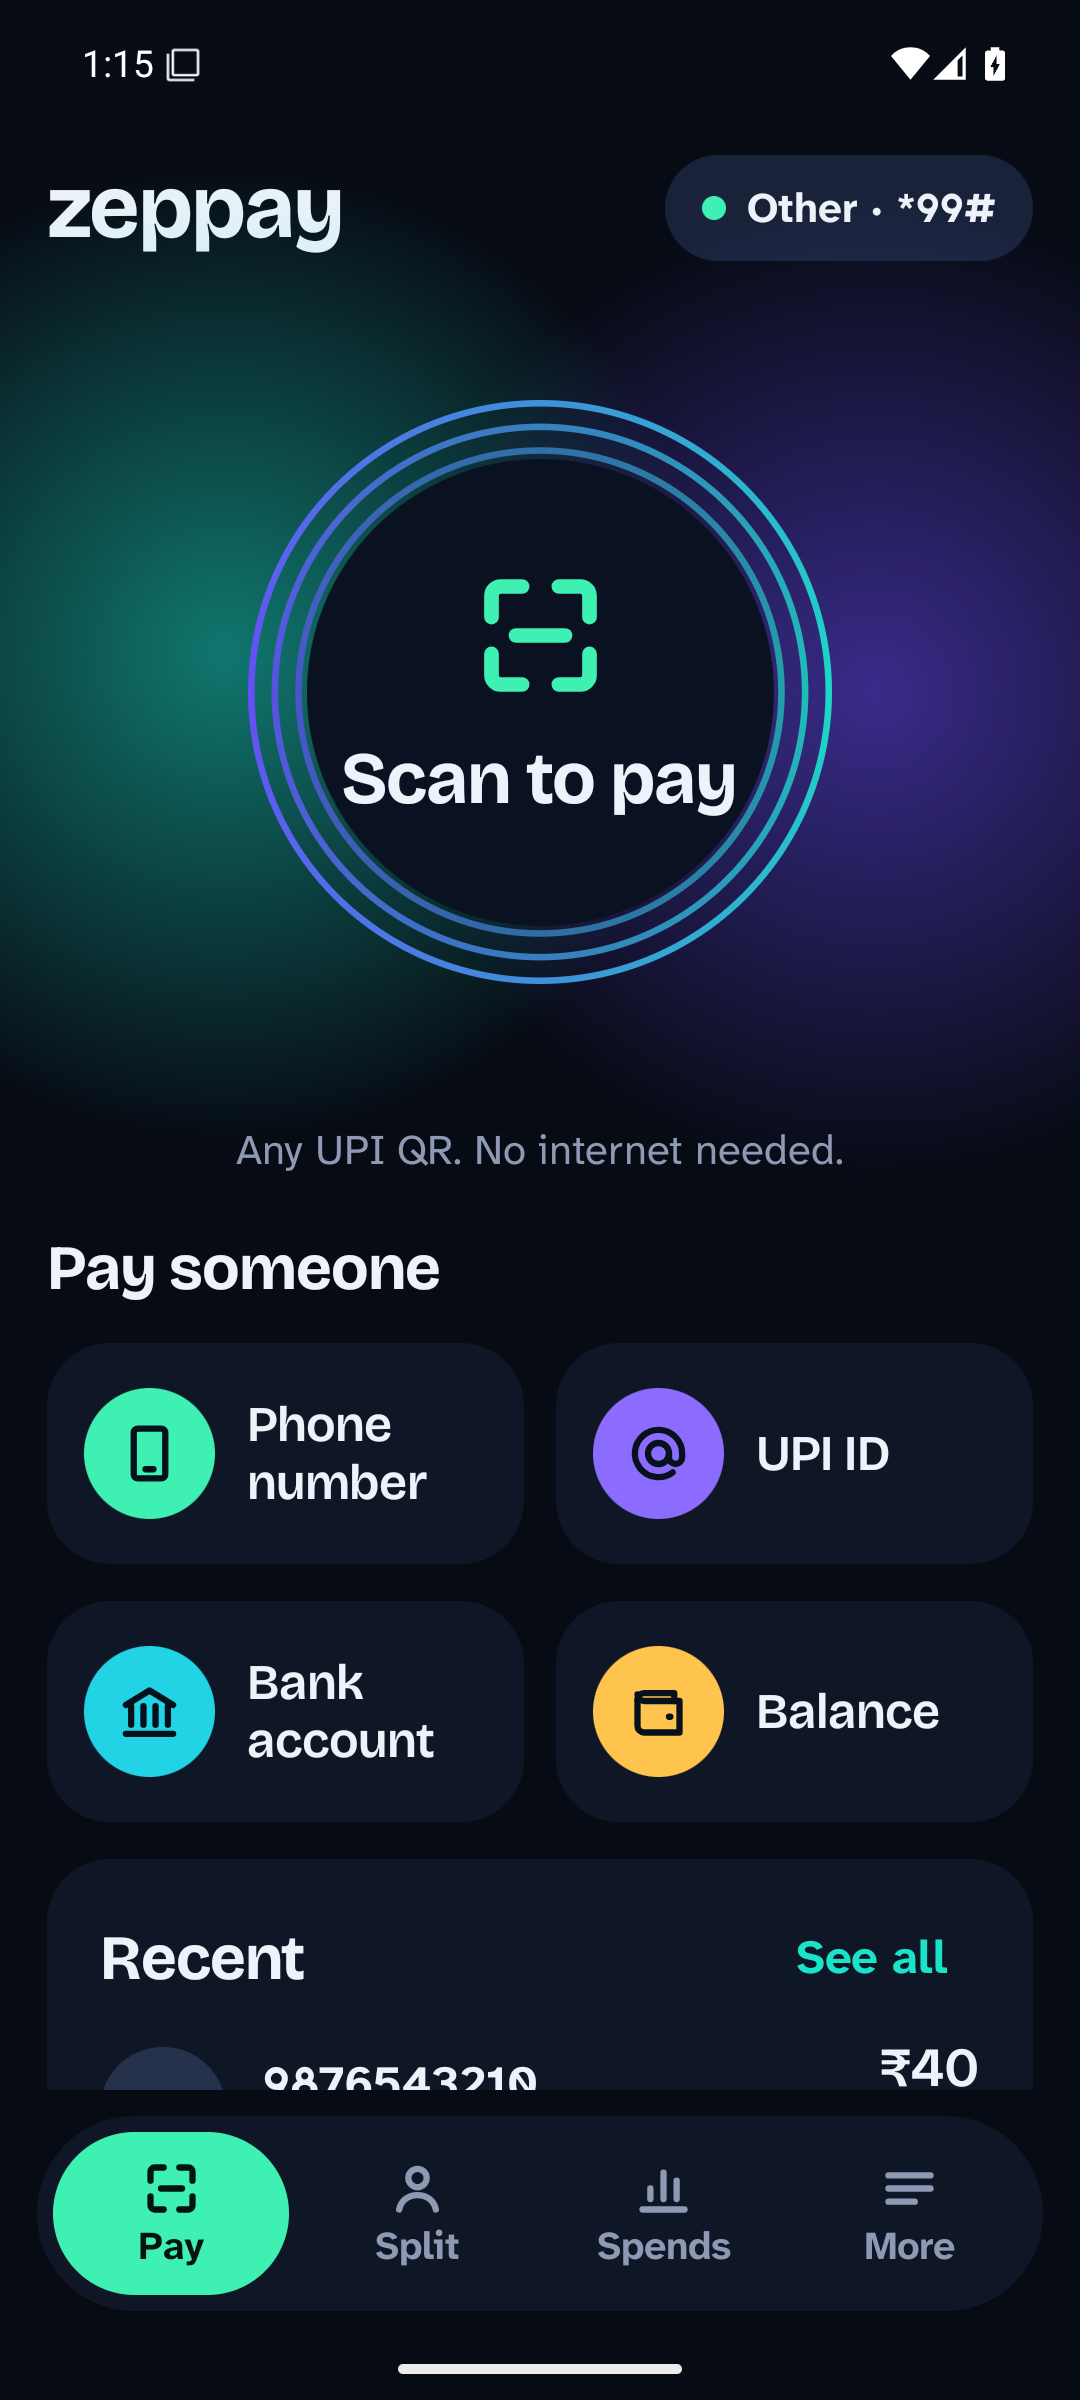
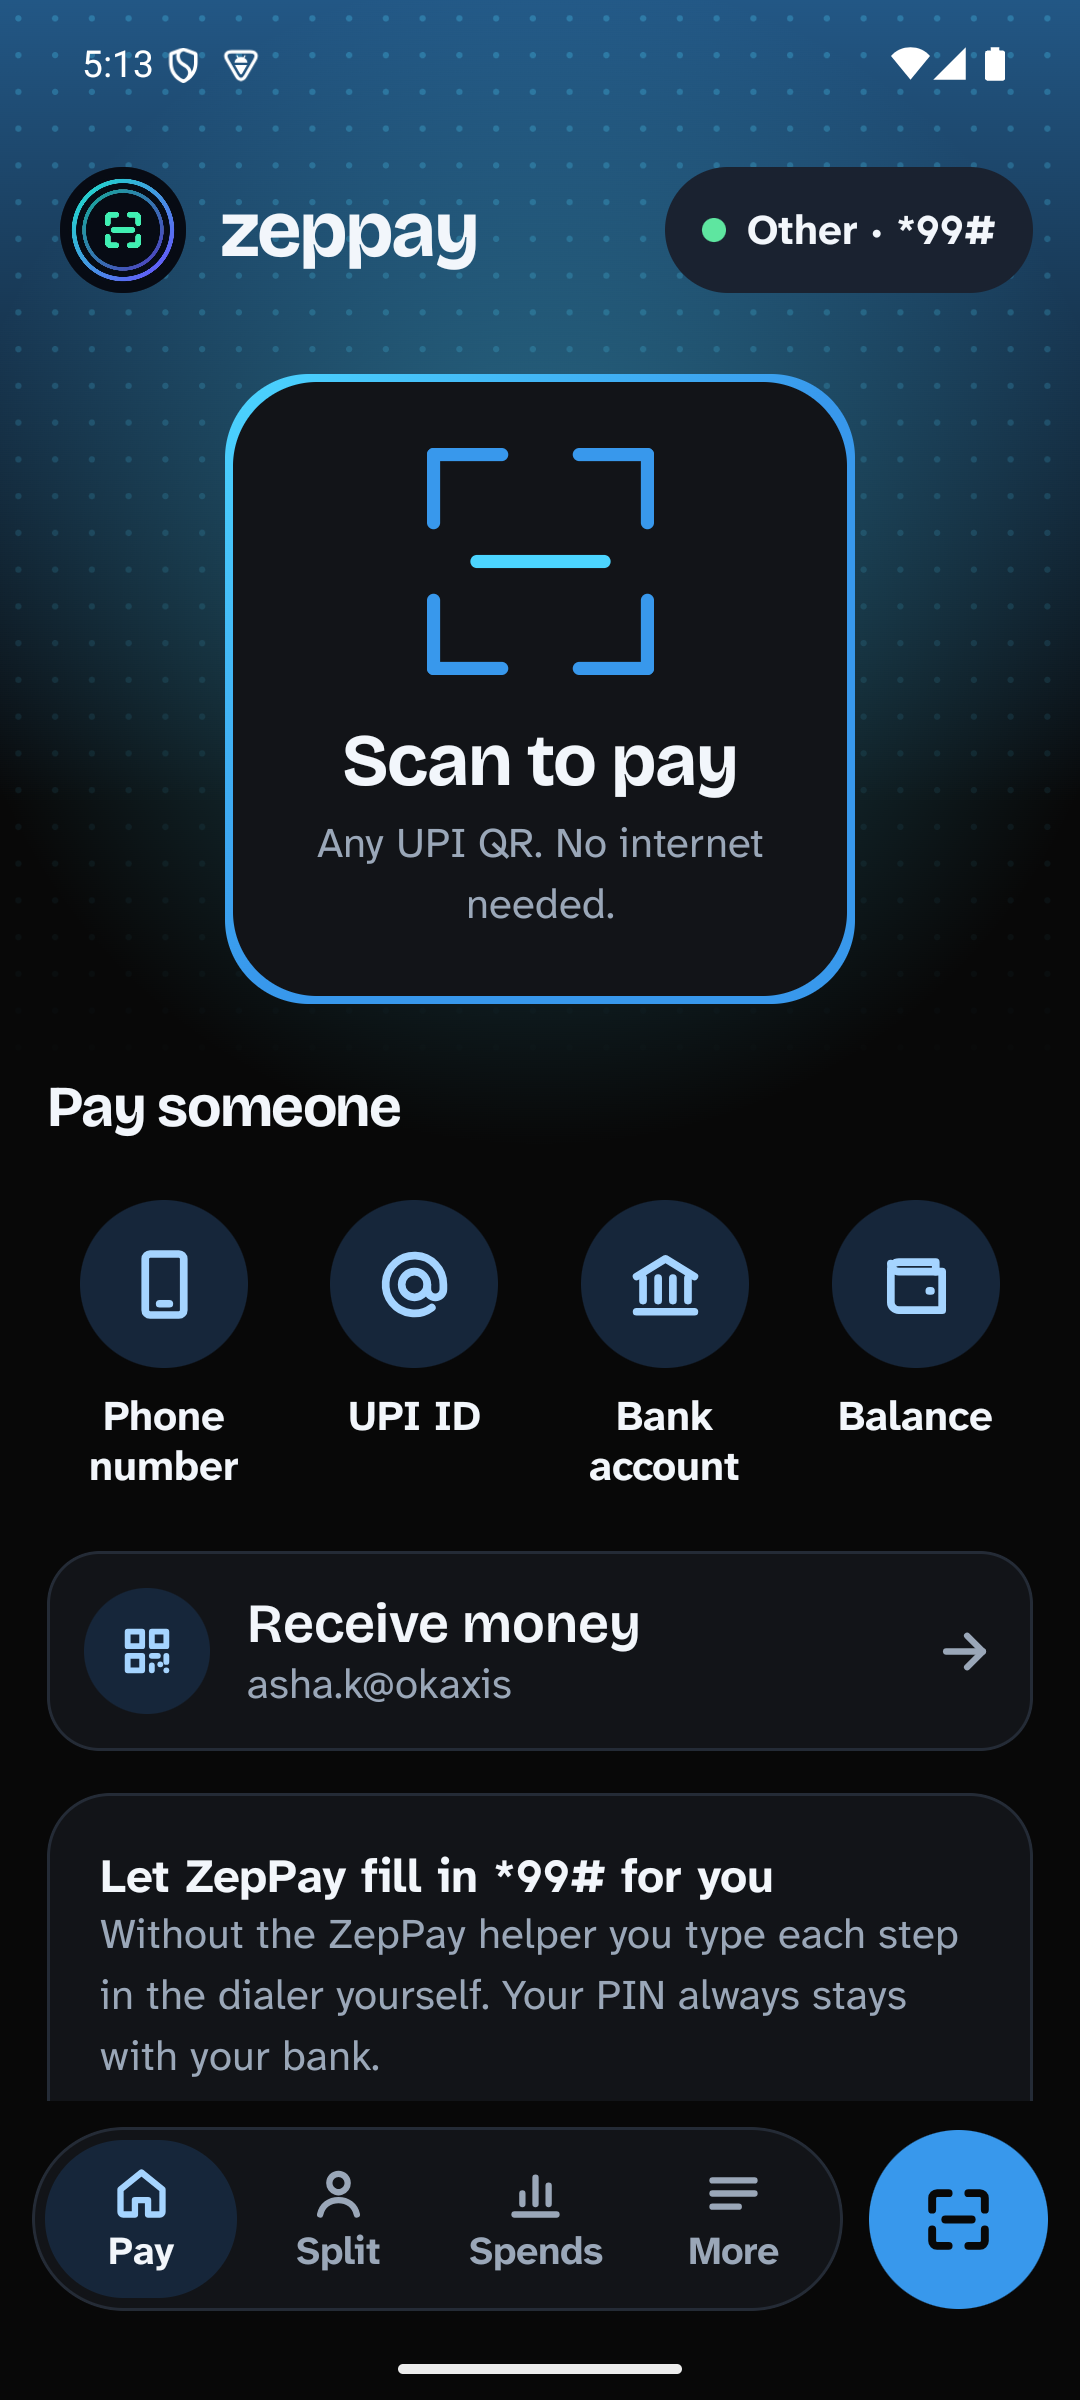
Docs: Blue Current design contract, new screenshots, Profile and Receive

diff --git a/android-app/docs/DESIGN.md b/android-app/docs/DESIGN.md
@@ -1,52 +1,72 @@
-# ZepPay design contract: "Aurora Signal"
+# ZepPay design contract: "Blue Current"
 
-Shared by the Android app and the iPhone web app (`mananbharti/zeppay`, `zeppay-pwa/`).
-Target image: [design/aurora-target-home.png](design/aurora-target-home.png) (generated in Figma, approved, then built and compared on device).
+Android app. Replaces "Aurora Signal" (2.1.x). The iPhone web app (`zeppay-pwa/`) still uses Aurora Signal until it is ported.
 
-**Purpose:** get someone paid fast, offline, with no doubt about what happened. Audience includes street vendors and elderly users, so one clear action per screen, big targets (≥ 58dp), plain words, body text ≥ 16sp, high contrast. Night is the default; Daylight is for bright sun.
+**Purpose:** get someone paid fast, offline, with no doubt about what happened. Audience includes street vendors and elderly users, so: one clear action per screen, big targets (≥ 58dp), plain words, body text ≥ 16sp, high contrast. Night is the default; Daylight is for bright sun; Auto follows the phone.
 
-**Grounding:** the user's dark-fintech references set the *feel* (premium night base, one glowing hero object, big numerals, pill buttons). Colour, the hero object and type were deliberately made ZepPay's own: no orange/red glow, no glossy square tile, no serif, no coins or offers.
+**Grounding:** layout ideas (a hero band with one scan card, a row of round quick actions, list rows with a chevron, a floating tab pill with a separate scan button, an ID-style profile card) were studied from a layout reference. No art, icon, font, colour, text or file from it is used. Every icon is drawn in code (`ui/theme/Icons.kt`), the hero is drawn in code (`HeroBand`, `ScanCard` in `ui/kit/Kit.kt`), and the palette is ZepPay's website palette.
 
 ## Colour: one job each
 
+All tokens live in `ui/theme/Zep.kt` (`ZepColors`, `Dark`, `Light`). Screens never use a hex value. Views drawn outside Compose (the overlay card) read the same night tokens through `ZepArgb`.
+
+Website palette: `#080808` black, `#3898EC` blue, `#2476CC` deep blue, `#A5D4FF` light blue, `#4CD5FF` cyan.
+
 | Token | Night | Daylight | Job |
 | --- | --- | --- | --- |
-| bg | `#070B14` | `#F5F7FC` | Page |
-| card / tile | `#0F1626` | `#FFFFFF` + hairline | Grouped info / shortcuts and inputs |
-| primary | mint `#3EF0B1`, ink text | ink `#0A1020`, mint text | **The one next action** |
-| secondary | `#18233A` | `#E7ECF6` | Any other choice |
-| aurora A / B | teal `#19E3C8` / violet `#6A4BFF` | slightly deeper | Only the signal dial and "working" |
-| bubbles | mint, violet, cyan, amber | same | Tile icons, so tiles are told apart without reading |
-| paid / failed / unsure | mint / coral / amber | darker shades | Status text and tinted status pills. Always with a word, never colour alone |
-| bank | sky `#9CC9FF` dashed | `#1B6FB5` dashed | The bank's counter: where ZepPay steps aside |
+| bg | `#080808` | `#F5F8FC` | Page |
+| card / tile | `#121418` + hairline | `#FFFFFF` + hairline | Grouped info / list rows and inputs |
+| raised | `#1A2230` | `#E3EEFA` | Avatars, surfaces on a card |
+| line | `#242B36` | `#D5E1EE` | Hairlines, dividers |
+| text / muted | `#F2F6FB` / `#9AA7B8` | `#080808` / `#4A5566` | Words |
+| link | `#A5D4FF` | `#1B5FA8` | Text actions ("See all", "Copy UPI ID") |
+| primary / onPrimary | `#3898EC` / `#080808` | `#2476CC` / `#FFFFFF` | **The one next action** |
+| secondary / onSecondary | `#1A2230` / `#F2F6FB` | `#E3EEFA` / `#0B2A4A` | Any other choice |
+| glowA / glowB | `#3898EC` / `#4CD5FF` | same | Only the hero band and the live-payment rings |
+| iconBg / iconFg | `#16263A` / `#A5D4FF` | `#D9ECFF` / `#1B5FA8` | Round icon wells; the selected tab |
+| paid / failed / unsure | `#5EE6A0` / `#FF7A86` / `#FFC44D` | `#0B7A4B` / `#C62F43` / `#8F5F00` | Status text and tinted pills. Always with a word, never colour alone |
+| bank | `#4CD5FF` dashed | `#2476CC` dashed | The bank's counter: where ZepPay steps aside |
+| camera / onCamera | `#080808` / `#F2F6FB` | same | The scanner (always dark) |
+| qrPaper / qrInk | `#FFFFFF` / `#080808` | same | Behind and in a QR (scanners need dark on light) |
+
+Contrast (WCAG): text 18.4:1 night / 18.8:1 day; muted 8.2 / 7.1; button labels 6.6 (black on `#3898EC`) / 4.6 (white on `#2476CC`); link 12.8 / 6.1; status colours ≥ 5.4 on their backgrounds. White on `#3898EC` would be only 3.1:1, which is why the night action pill uses black ink.
 
 ## Shape: one job each
 
-- **Pill** = an action (mint = next step, navy = other choice). Nothing else is a solid pill.
+- **Pill** = an action (blue = next step, quiet = other choice). Nothing else is a solid pill.
 - **Small tinted pill without an edge** = a status (Paid, Not confirmed, Done). Never pressable.
-- **Card, 24dp** = grouped information. **Tile, 24dp + icon bubble** = a shortcut. **Input, 18dp + hairline.**
-- **Signal dial** (disc + 3 gradient rings) = the one hero object: Scan to pay on Home, the payment in progress.
-- **Small circle** = a person.
-- **Dashed sky frame labelled "BANK'S COUNTER"** = only where the bank or the Phone app owns the screen (PIN, balance, bank-link steps). Never used for ordinary notes.
+- **Card, 24dp + hairline** = grouped information. **Row, 20dp + icon well + chevron** = a shortcut. **Input, 18dp + hairline.**
+- **Round icon well (64dp) with its label under it** = a Home quick action.
+- **Scan card** (32dp, cyan-to-blue gradient edge, big scan corners) = the one hero object on Home, on the hero band (blue wash + dot grid + cyan glow).
+- **Rings** = the live payment.
+- **Small circle** = a person (photo, initials, or a person icon before a name is set).
+- **Dashed cyan frame labelled "BANK'S COUNTER"** = only where the bank or the Phone app owns the screen (PIN, balance, bank-link steps).
+- **Dock** = a floating pill with four labelled tabs (current one in a light-blue well) plus a round blue Scan button: scanning is one tap from every tab.
 
 ## Type
 
-- **Bricolage Grotesque** (OFL): headings, amounts, tile labels. Normal width, slightly quirky.
+- **Bricolage Grotesque** (OFL): headings, amounts, labels.
 - **Atkinson Hyperlegible Next** (OFL): every sentence. Made for low-vision readers.
 
 ## Motion: one job each
 
-- **Press:** scale to 96%. Your tap registered.
+- **Press:** scale to 96%.
 - **Forward / back:** the next screen rises in (340ms, emphasized ease); back sinks it away.
-- **Rings ripple outward:** only while the carrier is working. Never decoration.
-- **Step aside:** the Android overlay shrinks from a banner into the dashed bank's-counter chip at PIN time.
-- **Outcome:** Paid pops with one ring; Failed shakes once; Not confirmed stays still (no celebration for uncertainty).
-- System "remove animations" / `prefers-reduced-motion` makes every motion instant.
+- **Rings ripple outward:** only while the carrier is working.
+- **Step aside:** the overlay shrinks into the dashed bank's-counter chip at PIN time.
+- **Outcome:** Paid pops with one ring; Failed shakes once; Not confirmed stays still.
+- System "remove animations" makes every motion instant.
+
+## Receive and profile (2.2)
+
+- **Profile:** name (required, ≤ 40), photo (system photo picker, copied into app-private storage, ≤ 512px), own UPI ID (optional, must look like `name@bank`). Store keys `profileName`, `profileVpa`, `profilePhoto` (new; no existing key renamed).
+- **Receive:** a real QR of `upi://pay?pa=<UPI ID>&pn=<name>[&am=<amount>][&tn=<note>]`, made with ZXing, dark on white in both themes. Share (picture through the share sheet) and Save (system "save as", no storage permission). No UPI ID yet: Receive sends you to Profile first.
+- **Honesty:** Receive never says money arrived. It says plainly that a QR confirms nothing and that only the bank (SMS, bank app, statement) confirms money received.
 
 ## Required states (all implemented)
 
-Onboarding (incl. upgrade from v1), payee entry with validation, amount (fixed for QR amounts), check-and-pay (helper off, on a call, Jio/UPI-ID block, overlay off), live session (opening, filling in, PIN handoff, bank asks something unknown), outcomes (Paid, Failed, Stopped, Not confirmed with the bank's raw text and "don't pay again yet"), manual route "Did it go through?", receipt, balance/history info, splits (none, owe, owed, settled), spends (ZepPay-recorded only, unconfirmed shown apart), helper setup incl. Android 13+ restricted settings, bank setup one step per screen, carrier-menu check, updates (check, available, downloading, verifying, Android confirmation, permission needed, blocked during payment, failed), settings, help, licences.
+Onboarding, payee entry with validation, amount (fixed for QR amounts), check-and-pay, live session (opening, filling in, PIN handoff, bank asks something unknown), outcomes (Paid, Failed, Stopped, Not confirmed with the bank's text and "don't pay again yet"), manual route "Did it go through?", receipt, balance/history info, splits, spends, helper setup incl. restricted settings, bank setup, carrier-menu check, updates, settings, help, licences, profile (empty, invalid, saved, with photo), receive (no UPI ID, any amount, fixed amount, invalid amount).
 
 ## Finish condition
 
-Rendered on an Android 15 emulator (night + daylight) and in Chromium at 390×844 (night + daylight), compared with the target image. Not yet checked: a real phone, small screens under 360dp wide, Android font scale 200%, and a real iPhone.
+Rendered on an Android 15 emulator in Night and Daylight (every screen), Receive QR decoded from a screenshot with ZXing and scanned back with ZepPay's own scanner, profile and photo kept across rotation and restart, the pay flow run end to end against the debug simulated carrier. Not yet checked: a real phone, screens under 360dp wide, font scale 200%, TalkBack.

diff --git a/android-app/README.md b/android-app/README.md
@@ -16,6 +16,11 @@
 <img src="docs/screenshots/09-spends.png" width="180">
 <img src="docs/screenshots/01-home-daylight.png" width="180">
 </p>
+<p>
+<img src="docs/screenshots/12-profile.png" width="180">
+<img src="docs/screenshots/13-receive.png" width="180">
+<img src="docs/screenshots/14-more-daylight.png" width="180">
+</p>
 
 Real emulator screenshots of this build. Design contract: [docs/DESIGN.md](docs/DESIGN.md).
 
@@ -36,6 +41,8 @@ Real emulator screenshots of this build. Design contract: [docs/DESIGN.md](docs/
 - **Keeps going when you leave ZepPay:** a running `*99#` session lives outside ZepPay's screen, with a status notification and a Cancel button. See [Leaving ZepPay during a payment](#leaving-zeppay-during-a-payment)
 - **Offline bank + IFSC finder** for paying a bank account: pick the bank, then the branch or town, and the IFSC is filled in (you can still edit it). See [Bank and IFSC list](#bank-and-ifsc-list)
 - **In-app updates:** check, download, verify, install. See below
+- **Profile:** your name, a photo (system photo picker; the picture is copied into ZepPay's private storage) and your own UPI ID, checked for the `name@bank` shape. On this phone only
+- **Receive:** your UPI ID as a real QR (`upi://pay?pa=…&pn=…`, optional amount and note) that any UPI app can scan; share it or save it as a picture. ZepPay can't see money arriving, so it never says "received": only your bank's SMS, app or statement confirms that
 
 ## The PIN rule
 
@@ -126,7 +133,7 @@ The finder only fills in the IFSC field. It never links, checks or verifies anyo
 | Internet + network state | Update checks and downloads only. Payments never use the internet |
 | Install packages | Install ZepPay's own verified updates |
 
-No SMS access, no location, no contacts permission.
+No SMS access, no location, no contacts permission, no storage permission (the profile photo comes through the system photo picker and the Receive QR is saved through the system "save as" screen).
 
 ## Build
 

diff --git a/README.md b/README.md
@@ -17,7 +17,7 @@
 | [`zeppay-pwa/`](zeppay-pwa) | iPhone web app (React, Vite, offline PWA) | [README](zeppay-pwa/README.md) |
 | [`gh-pages-root/`](gh-pages-root) | Static extras published with the website (Zep Card profile page) | |
 
-Both apps share one identity, "Aurora Signal", and one rule set: never capture the UPI PIN; show *Paid* only when the bank's reply (Android) or the user (iPhone) confirms it; never auto-retry an uncertain payment.
+The Android app uses the "Blue Current" design ([android-app/docs/DESIGN.md](android-app/docs/DESIGN.md)); the iPhone app still uses "Aurora Signal". Both share one rule set: never capture the UPI PIN; show *Paid* only when the bank's reply (Android) or the user (iPhone) confirms it; never auto-retry an uncertain payment.
 
 The earlier Flutter app was removed in favour of these two. It's in git history, and its old releases stay downloadable.
 
